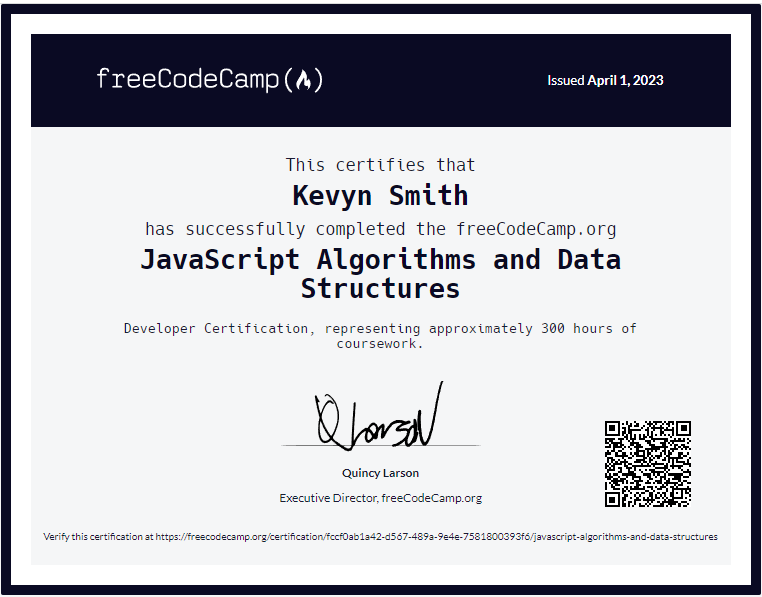
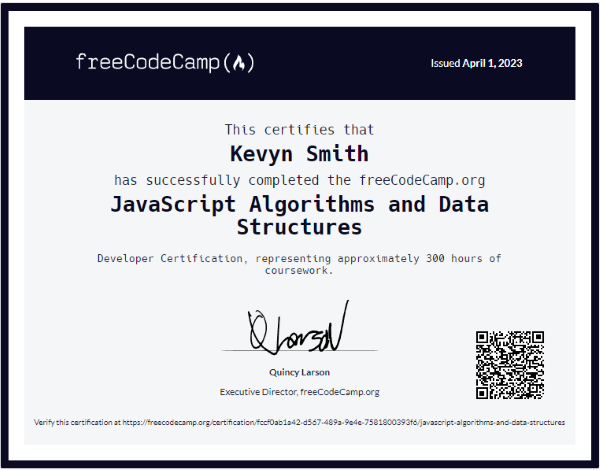
Updated cert images and styling

diff --git a/index.html b/index.html
@@ -552,6 +552,7 @@
                             alt="Certificate of completion for the Scrimba Front-End developer career path"
                             loading="lazy"
                             class="cert-image"
+                            id="scrimba-cert"
                         />
                     </article>
                     <article class="certificate-info">
@@ -577,6 +578,7 @@
                             alt="Certificate of completion for the FreeCodeCamp JavaScript Data Structures and
                         Algorithms course"
                             loading="lazy"
+                            class="cert-image"
                         />
                     </article>
                     <article class="certificate-info">
@@ -598,6 +600,7 @@
                             src="./Assets/Images/certifications/fcc-rwd-cert.png"
                             alt="Certificate of completion for the FreeCodeCamp Responsive Web Design course"
                             loading="lazy"
+                            class="cert-image"
                         />
                     </article>
                 </div>

diff --git a/CSS/index.css b/CSS/index.css
@@ -353,6 +353,9 @@ section {
 
 .cert-image {
     width: 100%;
+}
+
+#scrimba-cert {
     border: 1px solid #1c1c1c;
 }
 

diff --git a/README.md b/README.md
@@ -1,3 +1,9 @@
 # Portfolio
 
+https://kevynsmith.dev/
+
 My web development portfolio
+
+Attribution:
+
+Blueprint-design-construction image by TheDigitalArtist: https://pixabay.com/illustrations/blueprint-design-construction-3804743/
